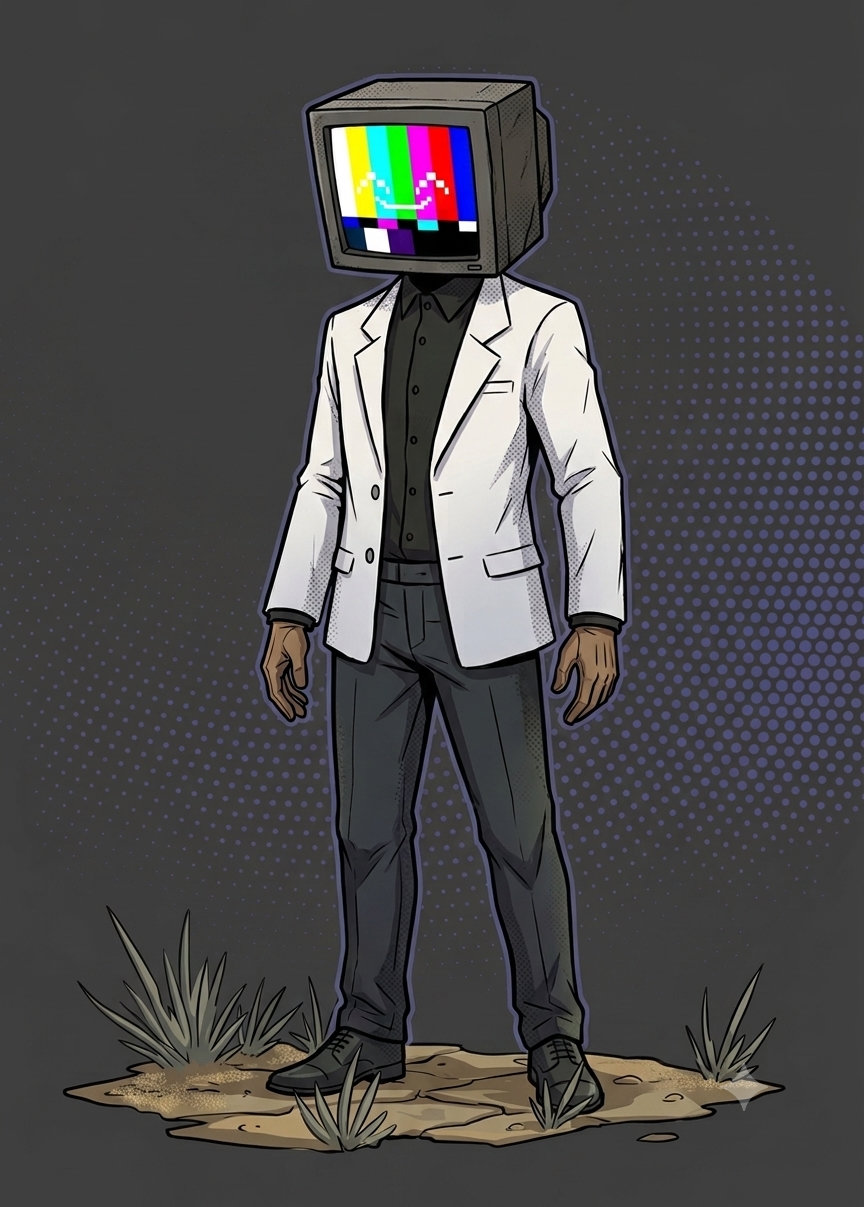
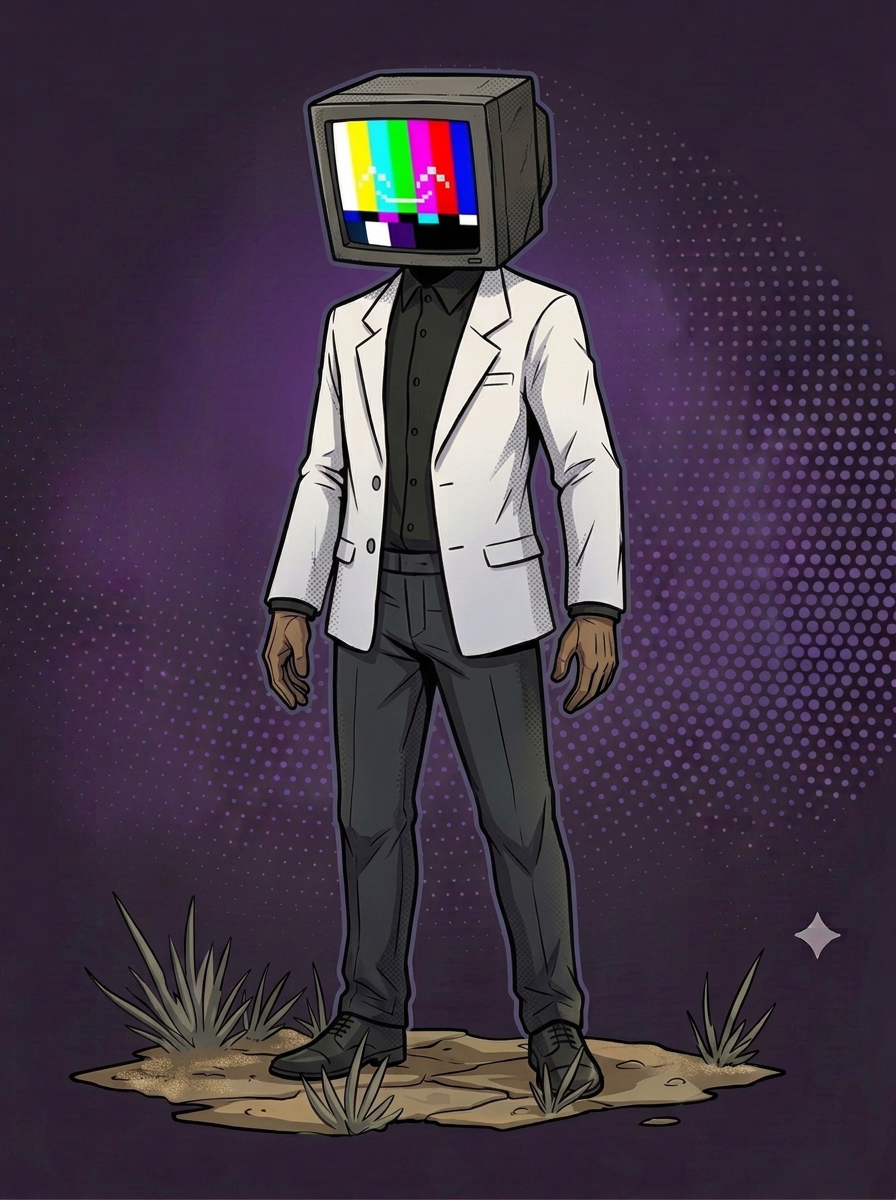
save

diff --git a/AppName/src/pages/dashboard/data/tiles.js b/AppName/src/pages/dashboard/data/tiles.js
@@ -1,6 +1,6 @@
 export const tiles = [
   {
-    id: 11,
+    id: 1,
     number: 1,
     type: 'Story',
     title: 'Canyon Awakening',
@@ -11,7 +11,7 @@ export const tiles = [
       environment:
         'You wake up face-down in hot, yellow desert sand. Surrounding you are towering, cracked sandstone canyon walls that block out the horizon. The heat is oppressive, and the air smells faintly of ozone and ancient dust.',
       npcAppearance:
-        'Standing before you is a tall, slender figure wearing a tailored, jet-black business suit, crisp white shirt, and black tie. In place of a head sits a retro CRT television monitor flickering with static, color bars, and a pulsing digital mono-eye.',
+        'A stylish humanoid figure with a bulky retro television for a head. Its screen glows with bright rainbow color bars forming a digital smile, creating a stark contrast against its tailored white suit jacket, dark button-up shirt, and sleek dark pants.',
       voiceStyle:
         'Smooth, theatrical, and charismatic—like a classic game show host',
       npcImage: 'TVhead.png',
@@ -25,7 +25,7 @@ export const tiles = [
     },
   },
   {
-    id: 21,
+    id: 2,
     number: 2,
     type: 'Encounter',
     title: 'Sands of the Risen',
@@ -40,7 +40,7 @@ export const tiles = [
       encounter: {
         name: 'Desert Husk (Zombie)',
         appearance:
-          'A mummified corpse wrapped in rotting linen, holding a chipped bronze scimitar with eerie green light glowing in its empty eye sockets.',
+          'This green-skinned zombie wears tattered, hooded robes with cloth wrappings bound around its head and limbs. It features glowing white eyes, sharp teeth, and a large wooden beam strapped to its back alongside a scorpion-marked shoulder piece.',
         image: 'zombie.png',
         hp: 18,
         ac: 4,
@@ -73,55 +73,6 @@ export const tiles = [
     },
   },
   {
-    id: 6,
-    number: 6,
-    type: 'Trap',
-    title: 'The Tremor Plate',
-    category: 'Trap',
-    area: 'Abandoned Village',
-    highlighted: true,
-    details: {
-      environment:
-        'An ancient stone slab embedded in the sand, carved with worn geometric gears.',
-      eventStory:
-        'As your foot presses down, a loud CLICK echoes under the sand. Massive stone gears grind below ground, causing a localized earthquake! In the distance, the buildings of the Abandoned Village physically shift and rotate on their foundations, altering the landscape layout!',
-      trapEffect:
-        'World Shift: The GM physically rotates the Abandoned Village Node on the game board by 90 degrees, shifting path connections!',
-    },
-  },
-  {
-    id: 5,
-    number: 5,
-    type: 'Encounter',
-    title: 'Dune Snarlers',
-    category: 'Encounter',
-    area: 'Abandoned Village',
-    highlighted: false,
-    details: {
-      environment:
-        'A wind-swept clearing surrounded by sharp obsidian rock pillars jutting out of the dunes.',
-      eventStory:
-        'Low growls echo from behind the rocks. A pack of hairless, scaly desert hounds bounds out, snapping their jaws at your group.',
-      encounter: {
-        name: 'Sand Hound Alpha',
-        appearance:
-          'A lean, scaly canine beast with obsidian-hard hide and glowing yellow eyes.',
-        image: 'sandDog.png',
-        hp: 22,
-        ac: 6,
-        energy: 4,
-        resistances: ['Blunt'],
-        vulnerabilities: ['Acid'],
-        actionCards: [
-          { name: 'Quick Slash', rarity: 'Common', image: 'QuickSlashCommon.png' },
-          { name: 'Pummel', rarity: 'Common', image: 'PummelCommon.png' },
-          { name: 'Heavy Slam', rarity: 'Rare', image: 'HeavySlamRare.png' },
-        ],
-      },
-      reward: 'Victory Drop: On victory each player, draw 1 Trait Card.',
-    },
-  },
-  {
     id: 4,
     number: 4,
     type: 'Merchant',
@@ -133,7 +84,7 @@ export const tiles = [
       environment:
         'A striped silk tent anchored by heavy brass stakes. Inside, aromatic incense burns in a copper brazier, shielding visitors from the desert heat.',
       npcAppearance:
-        'Sskesh, a hunched merchant wrapped in heavy desert robes with brass goggles covering his eyes and thick leather gloves.',
+        'A mysterious green-skinned traveler completely shrouded in cloth wrappings and dark goggles beneath a hooded cloak. Cross-legged on the ground, it conjures a floating, golden-lit miniature automaton between its bare hands while sitting beside a well-worn leather trail pack bursting with maps and trinkets.',
       voiceStyle:
         'Raspy, whispery, and clicking softly between sentences.',
       npcImage: 'Merchant.png',
@@ -155,6 +106,55 @@ export const tiles = [
     },
   },
   {
+    id: 5,
+    number: 5,
+    type: 'Encounter',
+    title: 'Dune Snarlers',
+    category: 'Encounter',
+    area: 'Abandoned Village',
+    highlighted: false,
+    details: {
+      environment:
+        'A wind-swept clearing surrounded by sharp obsidian rock pillars jutting out of the dunes.',
+      eventStory:
+        'Low growls echo from behind the rocks. A pack of hairless, scaly desert hounds bounds out, snapping their jaws at your group.',
+      encounter: {
+        name: 'Sand Hound Alpha',
+        appearance:
+          'This six-eyed, canine-like creature features mottled sandy-gray fur paired with a heavily scaled, reptilian back and a thick, armored tail. It sports pointed ears, sharp little fangs, a wide playful grin with a panting tongue, and scaly, clawed feet.',
+        image: 'sandDog.png',
+        hp: 22,
+        ac: 6,
+        energy: 4,
+        resistances: ['Blunt'],
+        vulnerabilities: ['Acid'],
+        actionCards: [
+          { name: 'Quick Slash', rarity: 'Common', image: 'QuickSlashCommon.png' },
+          { name: 'Pummel', rarity: 'Common', image: 'PummelCommon.png' },
+          { name: 'Heavy Slam', rarity: 'Rare', image: 'HeavySlamRare.png' },
+        ],
+      },
+      reward: 'Victory Drop: On victory each player, draw 1 Trait Card.',
+    },
+  },
+  {
+    id: 6,
+    number: 6,
+    type: 'Trap',
+    title: 'The Tremor Plate',
+    category: 'Trap',
+    area: 'Abandoned Village',
+    highlighted: true,
+    details: {
+      environment:
+        'An ancient stone slab embedded in the sand, carved with worn geometric gears.',
+      eventStory:
+        'As your foot presses down, a loud CLICK echoes under the sand. Massive stone gears grind below ground, causing a localized earthquake! In the distance, the buildings of the Abandoned Village physically shift and rotate on their foundations, altering the landscape layout!',
+      trapEffect:
+        'World Shift: The GM physically rotates the Abandoned Village Node on the game board by 90 degrees, shifting path connections!',
+    },
+  },
+  {
     id: 7,
     number: 7,
     type: 'Encounter',
@@ -170,7 +170,7 @@ export const tiles = [
       encounter: {
         name: 'Canyon Marauder',
         appearance:
-          'A wire-thin bandit clad in boiled leather, wearing a cloth mask and dark goggles.',
+          'This shadowy, dark-skinned figure features spiky black hair, pointed ears, glowing yellow eyes, and a face mask covering its lower features. It wears a tattered olive cloak over worn robes with cloth wrappings bound around its forearms, legs, and feet. In one hand it holds a heavy, notched blade, while conjuring a blazing fireball in the other.',
         image: 'bandit.png',
         hp: 20,
         ac: 5,
@@ -215,7 +215,7 @@ export const tiles = [
       environment:
         'A small shade canopy covering a low wooden table with carved stone dice cups.',
       npcAppearance:
-        'Zaros, a suave, slicked-back gambler wearing silver rings and a velvet vest.',
+        'A stylish magician hovering mid-air with a sharp smile and golden, glowing eyes. Dressed in a fancy top hat, high-collared vest, and a ragged trench coat featuring a white rose boutonnière, he manipulates a storm of levitating playing cards with a flick of his gloved fingers.',
       voiceStyle:
         'Smooth, confident, with a casual chuckle between rolls.',
       npcImage: 'gambler.png',
@@ -247,6 +247,39 @@ export const tiles = [
         'As you step inside the merchant tent, the floor shudders and the tent fabric snaps tight. Hidden needles shoot from the walls as the room collapses into a spring-loaded pit!',
       trapEffect:
         'Hidden Pitfall: The player is forced to discard 1 card from hand and cannot move for 1 turn while they climb out.',
+    },
+  },
+  {
+    id: 11,
+    number: 11,
+    type: 'Encounter',
+    title: 'Sands of the Risen',
+    category: 'Encounter',
+    area: 'Abandoned Village',
+    highlighted: false,
+    details: {
+      environment:
+        'A narrow gorge littered with sun-bleached animal bones and rusted iron swords half-buried in sand drifts.',
+      eventStory:
+        'As you take a step forward, the ground vibrates. A withered hand erupts from the sand beneath your feet, followed by a decayed warrior crawling into the daylight.',
+      encounter: {
+        name: 'Desert Husk (Zombie)',
+        appearance:
+          'This green-skinned zombie wears tattered, hooded robes with cloth wrappings bound around its head and limbs. It features glowing white eyes, sharp teeth, and a large wooden beam strapped to its back alongside a scorpion-marked shoulder piece.',
+        image: 'zombieArmor.png',
+        hp: 25,
+        ac: 6,
+        energy: 3,
+        resistances: ['Slash'],
+        vulnerabilities: ['Fire'],
+        actionCards: [
+          { name: 'Quick Slash', rarity: 'Common', image: 'QuickSlashCommon.png' },
+          { name: 'Pummel', rarity: 'Common', image: 'PummelCommon.png' },
+          { name: 'Heavy Slam', rarity: 'Rare', image: 'HeavySlamRare.png' },
+          { name: 'Blade Dance', rarity: 'Rare', image: 'BladeDanceRare.png' },
+        ],
+      },
+      reward: 'Victory Drop: On victory each player, draw 1 Trait Card.',
     },
   },
 ];

diff --git a/AppName/src/pages/dashboard/components/BoardTiles/BoardTiles.jsx b/AppName/src/pages/dashboard/components/BoardTiles/BoardTiles.jsx
@@ -3,6 +3,7 @@ import { useEffect, useMemo, useState } from 'react';
 import './BoardTiles.css';
 
 import zombie from '../../data/encounerImg/zombie.png';
+import zombieArmor from '../../data/encounerImg/zombieArmor.png';
 import sandDog from '../../data/encounerImg/sandDog.png';
 import bandit from '../../data/encounerImg/bandit.png';
 import TVheadImg from '../../data/encounerImg/TVhead.png';
@@ -505,6 +506,7 @@ function BoardTiles({ tiles, selectedTileId, onSelectTile, selectedTile, players
                         src={
                           selectedTile.details.encounter.image === 'sandDog.png' ? sandDog :
                           selectedTile.details.encounter.image === 'bandit.png' ? bandit :
+                          selectedTile.details.encounter.image === 'zombieArmor.png' ? zombieArmor :
                           zombie
                         } 
                         alt={selectedTile.details.encounter.name} 
